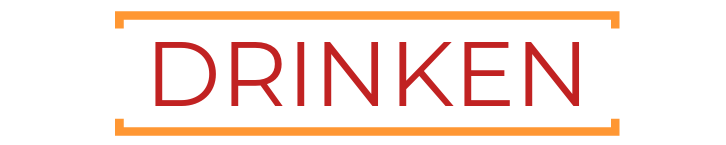
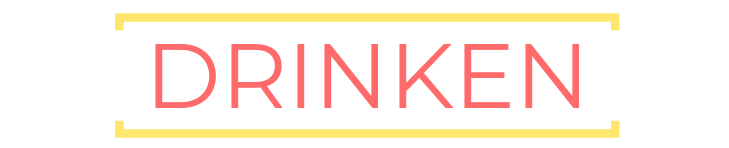
Changed the colors of the border and the images

Changed region(s): [[0.2121, 0.2759, 0.8182, 0.7448], [0.1515, 0.0552, 0.8788, 0.2207], [0.1515, 0.8, 0.8788, 0.9379]]

diff --git a/stylesheet.css b/stylesheet.css
@@ -10,7 +10,7 @@
 .table { 
 	
 	align-self: center;
-	border: 5px solid #F18F06;
+	border: 5px solid #ff6b6b;
 	width: 30%;
 		}
 
